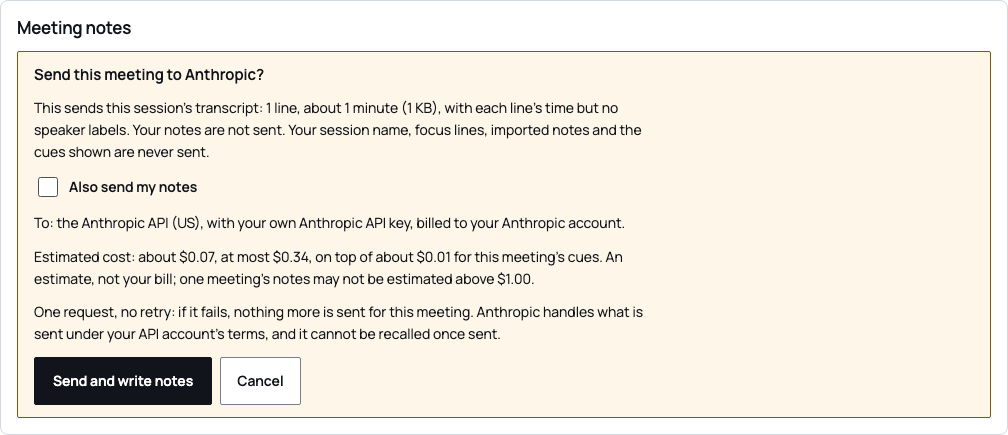
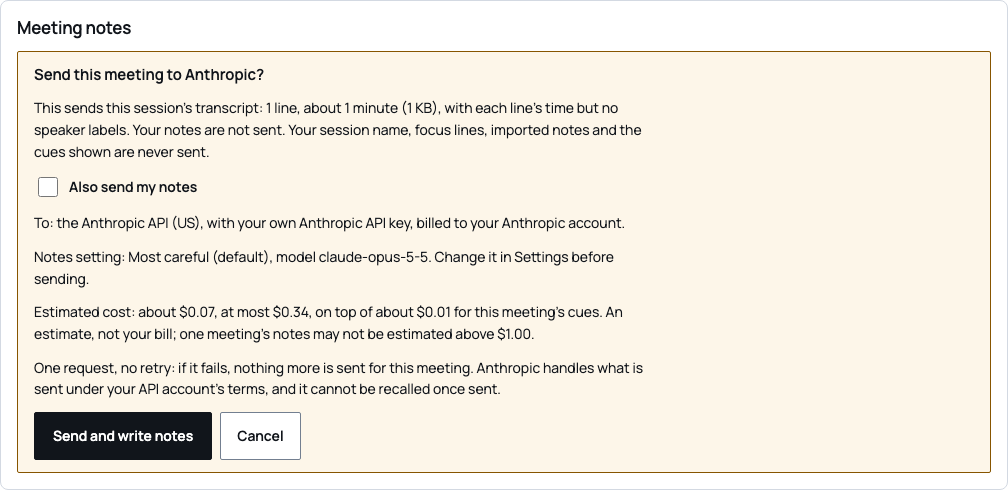
docs(notes): say what the owner check proves, the residual risk and the new bounds

Changed region(s): [[0.0, 0.0299, 0.9841, 0.8966], [0.0, 0.9264, 1.0, 1.0]]

diff --git a/docs/meeting-notes.md b/docs/meeting-notes.md
@@ -8,7 +8,7 @@ The request, the checks and the prompt are in `src-tauri/src/meeting_notes.rs`. 
 
 1. **Write meeting notes…** appears under **Meeting notes** once a live session with a transcript has ended. It is not offered while a session runs, before one, or once this meeting's request has been sent.
 2. Choosing it asks Rust for a plan; nothing is sent. The notebook shows the confirmation below and moves focus to its heading.
-3. **Send and write notes** sends the one request. The notebook says "Writing meeting notes… This can take a minute or two." with **Stop waiting**.
+3. **Send and write notes** sends the one request, and only if what would be sent is still exactly what the confirmation described: the plan carries a SHA-256 digest of the request body, and Rust refuses a request whose body differs ("What would be sent has changed since you looked … Nothing was sent."), after which the notebook shows the new plan. If the person's notes change while the confirmation is open with **Also send my notes** ticked, the notebook asks for a new plan at once. While the request runs the notebook says "Writing meeting notes… This can take a minute or two." with **Stop waiting**. Stop waiting is per request: chosen while the key is still being read (a Keychain prompt can take a while), nothing is sent ("Stopped before anything was sent. Nothing was sent.") and the request stays available; chosen after sending, the reply is no longer read. Starting a new live session stops the last session's request in the same way and drops its result.
 4. Checked notes appear as editable Markdown under "Check, edit, then keep or discard", with **Where each item came from** listing each item and the text of the lines it cites. **Keep with this meeting** keeps the edited text; **Discard** drops it.
 5. Kept notes are added to the export after the person's own notes, as edited; the existing export review shows them, and nothing is written until the person chooses a destination. The transcript and cues are still added only when **Also keep this meeting** is ticked there. Note reminders, the Still open list and speaker labels stay out, as before.
 6. The next session clears the notes, kept or not.
@@ -24,6 +24,8 @@ For a fictional 7-line meeting of 2 minutes with the default model (figures chan
 > ☐ Also send my notes
 >
 > To: the Anthropic API (US), with your own Anthropic API key, billed to your Anthropic account.
+>
+> Notes setting: Most careful (default), model claude-opus-5-5. Change it in Settings before sending.
 >
 > Estimated cost: about $0.07, at most $0.34, on top of about $0.01 for this meeting's cues. An estimate, not your bill; one meeting's notes may not be estimated above $1.00.
 >
@@ -65,26 +67,30 @@ The request goes to the fixed Messages API host with the key from the Keychain i
 
 The reply must be JSON with exactly `summary`, `decisions`, `actions` (`text`, `owner`, `due`, `lines`) and `openQuestions`, and nothing else. Then:
 
-| Check                                                                            | Failure code      |
-| -------------------------------------------------------------------------------- | ----------------- |
-| Not JSON, a missing or extra field, or an action without `owner` or `due`        | `unreadable`      |
-| More than 5 summary points, or more than 20 items in another section             | `tooMany`         |
-| An empty item, or one over 400 characters                                        | `itemText`        |
-| An item citing no line, or more than 8                                           | `uncited`         |
-| An item citing a line that was not sent (including notes that were not included) | `unknownLine`     |
-| An owner that does not appear, ignoring case and spacing, in the lines it cites  | `ownerNotInLines` |
-| A due date that does not appear in the lines it cites                            | `dueNotInLines`   |
+| Check                                                                                                                                                                  | Failure code      |
+| ---------------------------------------------------------------------------------------------------------------------------------------------------------------------- | ----------------- |
+| Not JSON, a missing or extra field, or an action without `owner` or `due`                                                                                              | `unreadable`      |
+| More than 5 summary points, or more than 20 items in another section                                                                                                   | `tooMany`         |
+| An empty item, or one over 400 characters                                                                                                                              | `itemText`        |
+| An item citing no line, or more than 8                                                                                                                                 | `uncited`         |
+| An item citing a line that was not sent (including notes that were not included)                                                                                       | `unknownLine`     |
+| An owner that is not a run of whole words in one of the lines it cites, has fewer than two letters, or is only pronouns, stand-ins ("someone", "the team") or a number | `ownerNotInLines` |
+| A due date that is not a run of whole words in one of the lines it cites, or is a single character                                                                     | `dueNotInLines`   |
 
 Any failure fails the whole reply. It is shown as failed with the reason, for example "The notes that came back failed a check (an action item named an owner that its lines do not mention), so none are shown. No notes were written, and nothing else will be sent for this meeting." Nothing is repaired, dropped or retried. A placeholder owner such as "Not stated" fails the same check, because the reply must use null.
+
+Words are compared after Unicode NFC normalisation and lower-casing, with straight, curly and modifier apostrophes dropped and every other non-letter, non-digit character a word break, so "O’Brien" matches "O'Brien" and a decomposed "Lucía" matches a composed one, while "Sam" does not match "Samantha". **What this proves is limited:** an owner or date is shown only when those words appear in the lines the item cites. It does not show that the person named agreed to the task, that the date belongs to it, or that a summary point or decision is right. The model can still write an item that is invented or misleading in other ways, which is why every item shows its lines.
+
+Model text is made inert before it becomes editable. Any word containing `://`, `www.`, `data:`, `mailto:` or `javascript:` becomes "(link removed)", and `\`, `<`, `>`, `[`, `]` and `` ` `` are backslash-escaped, so no link, image, raw HTML or code span from the reply reaches the export, and a Markdown viewer loads nothing from it. What the person types into the editable notes is theirs and is not changed.
 
 Passing notes are rendered by Rust. Each item ends with where it came from, `(transcript 00:47, 00:52)` or `(your notes line 3; transcript 00:40)`, using the same times the kept transcript lists; an action reads `Owner: Priya. Due: Friday.` or `Owner: not stated. Due: not stated.`
 
 ## Bounds, cost and failures
 
 - **Long meetings.** A transcript of more than 4,000 lines or 240,000 bytes of text is refused before anything is sent: "This meeting's transcript is longer than one request can take (about two hours of talk), so notes cannot be written for it. Nothing was sent." A session's audio is capped at 120 minutes, so this is rare; summarising only the last part was rejected because notes that silently miss the start of a meeting are worse than none.
-- **Cost.** The worst case is the cue path's formula: about two bytes per token for everything sent plus 1,500 tokens, at the input price, plus all 16,000 output tokens. The likely figure assumes four bytes per token and 3,000 output tokens. A request whose worst case passes $1.00 is refused. A completed reply is charged what the API reported; anything else is charged its worst case. The figure shown after writing is "Estimated cost of this request: about $X (an estimate, not your bill)."
-- **Nothing sent.** No transcript, a session still running, a request already sent this meeting, no key, a rejected key or an unreadable Keychain: a plain message ending "Nothing was sent.", and the request stays available when the cause was the key.
-- **Sent, then failed.** Unreachable or past 180 seconds, a 401 or 403 (the key is marked rejected), a 429, another status, a refusal, a reply at its output bound, a different model in the reply, a broken stream, **Stop waiting**, or a failed check. Each says what happened and that nothing else will be sent for this meeting.
+- **Cost.** The "at most" figure assumes one token per byte of everything sent (text rarely uses more) plus 1,500 tokens for the structured-output prompt, at the input price (nothing is cached), plus all 16,000 output tokens. The "about" figure assumes four bytes per token and 3,000 output tokens. A request whose "at most" figure passes $1.00 is refused before sending: "At its worst, this request could cost more than the $1.00 limit for one meeting's notes. A lower-cost model for meeting notes in Settings may fit. Nothing was sent." On the default model that refuses a transcript over roughly 160,000 bytes, about two and a half hours of typical speech, so the transcript bound rarely matters there. A completed reply records the cost the API reported, shown as "Estimated cost of this request: about $X (an estimate, not your bill)." When the API reports nothing (no reply, a 429 or another error status, a reply cut off, Stop waiting after sending, or the worker failing), the cost is recorded as not known rather than guessed, and the notebook says "The API did not report what this request cost; your Anthropic Console shows it." A 401 or 403 records nothing spent.
+- **Nothing sent.** No transcript, a session still running, a request already sent this meeting, the cost cap, a changed plan, Stop waiting before sending, no key, a rejected key or an unreadable Keychain: a plain message ending "Nothing was sent.", and the request stays available when the cause was the key, a changed plan or Stop waiting.
+- **Sent, then failed.** Unreachable or past 180 seconds, a 401 or 403 (the key is marked rejected), a 429, another status, a refusal, a reply at its output bound, a different model in the reply, a broken stream, **Stop waiting** after sending, or a failed check. Each says what happened and that nothing else will be sent for this meeting.
 
 ## Settings
 
@@ -92,8 +98,8 @@ Passing notes are rendered by Rust. Each item ends with where it came from, `(tr
 
 ## Evidence
 
-Offline only. Rust (`meeting_notes::tests`) runs every fixture case through the checks: owners only where named, an invented owner, a placeholder owner, an invented date, a line never sent, notes cited when not included, an uncited item, an extra field, a blank item, too many points, a meeting with nothing to note, an empty meeting, a Spanish meeting and notes cited when included. A scripted transport checks the request body (no speaker label, notes only when ticked, no fallback or tools), one request with no retry, the key only in the transport, charging, and every failure. Engine tests check one request per ended meeting, the draft staying out of the export until kept, the edited text in the export, discard, and a new session clearing everything. Playwright (`tests/meeting-notes.spec.ts`, Chromium and WebKit) checks the confirmation text, that Cancel sends nothing, the editable result and its sources, keep and export, failure, a key problem, a new session, the setting and a 320-pixel layout, against a fictional stand-in.
+Offline only. Rust (`meeting_notes::tests`) runs every fixture case through the checks: owners only where named, an invented owner, a placeholder owner, an invented date, a line never sent, notes cited when not included, an uncited item, an extra field, a blank item, too many points, a meeting with nothing to note, an empty meeting, a Spanish meeting and notes cited when included. A scripted transport checks the request body (no speaker label, notes only when ticked, no fallback or tools), one request with no retry, the key only in the transport, reported and unknown costs, and every failure. Further tests: Stop waiting during the key read posts nothing and leaves the request available; Stop waiting after sending stops reading with the cost unknown; a new session stops the last request before it is posted; a plan made before the notes changed is refused; owners "I", "we", "a", "Al", "Sam", "1", "the team" and "Someone" fail against a line naming Albert and Samantha, while NFD/NFC and curly/straight apostrophe pairs pass; an injected image, link, `javascript:` link, raw HTML and code span come out inert; and the companion window's capability file grants none of the notes commands while the main window's grants them all. Engine tests check one request per ended meeting, the draft staying out of the export until kept, the edited text in the export, discard, and a new session clearing everything. Playwright (`tests/meeting-notes.spec.ts`, Chromium and WebKit) checks the confirmation text with the notes setting, that Cancel sends nothing, Stop waiting before sending, a re-plan when notes change while the confirmation is open, the editable result and its sources, keep and export, failure, a key problem, a new session, the setting and a 320-pixel layout, against a fictional stand-in.
 
 ## What the first real run must confirm
 
-With a real key and a fictional meeting (no real people): that the request is accepted as built (the schema, effort and streaming on each of the three models); how often real replies pass the checks, and whether the owner and date checks reject correct notes (for example an owner written in a different form from the transcript); that items cite the right lines; that the likely and worst-case figures bracket the reported cost; how long a 30-, 60- and 120-minute meeting takes against the 180-second deadline; behaviour in a non-English meeting; and whether one request per meeting, with no retry after a network failure, is acceptable to the person.
+With a real key and a fictional meeting (no real people): that the request is accepted as built (the schema, effort and streaming on each of the three models); how often real replies pass the checks, and whether the owner and date checks reject correct notes (for example an owner written in a different form from the transcript); that items cite the right lines; that the "about" and "at most" figures bracket the reported cost, and how often the $1.00 cap refuses long meetings on the default model; how long a 30-, 60- and 120-minute meeting takes against the 180-second deadline; behaviour in a non-English meeting; and whether one request per meeting, with no retry after a network failure, is acceptable to the person.

diff --git a/PRIVACY.md b/PRIVACY.md
@@ -24,7 +24,7 @@ TalkQTE is an early desktop prototype with an optional microphone activity check
 - The development API lab can explicitly select `selected-prior-v2` context. Only after the session review approves exact stored note snapshots can it send their excerpts, titles, source labels, dates and opaque snapshot versions, together with approved conversation, the optional session name and current/earlier cues, to the Anthropic API. Importing or selecting a note is not processing permission. Saved snapshots are not verified current. Approving zero notes sends none, using the same selected-context prompt and route. Default API, subscription and standalone CLI paths still exclude prior notes; this mode sends no audio, manual notes or focus lines to the cue provider. The review names API billing, the per-run cap, request limits, retention and any separate transcription destination. Changing or removing an approved note invalidates its grant and pending/held cue evidence; Off and Stop prevent future requests and reject late replies but cannot recall content already sent. This is a separately enabled fictional lab path, not real-account or live-usefulness acceptance ([scope and remaining gates](docs/selected-context-lab-opt-in.md)).
 - Your own provider keys: **Settings → Your API keys** stores one Deepgram API key and one Anthropic API key, which you create in your own accounts. They are kept only in your macOS login Keychain (service `app.talkqte.provider-key`), never written to a file, never logged and never shown again; the notebook only learns whether each key is set, has been checked, or was rejected. Storing a key sends nothing. **Test** sends one read-only request to that key's provider (Deepgram's project list, Anthropic's model list), which neither transcribes nor generates anything. **Remove** deletes the key from the Keychain. The Deepgram key is used for transcription and the Anthropic key for cue decisions, as described below. See [provider keys](docs/provider-keys.md).
 - Cue decisions with your own Anthropic key: once you approve the session's review, which names the Anthropic API beside Deepgram, the app sends the Anthropic Messages API up to six recent transcript lines (labelled only `Speaker`) and any lines the cue on screen cites, the cue on screen, up to four earlier cues with how each ended, and your session name if you set one. It sends after new lines, at most once every two seconds, at most 400 requests and an estimated $0.50 per session, with the key only in a request header. The caps are per session; there is no per-launch or per-day cap. Pause cues stops these requests but not the audio to Deepgram, which is still sent and billed until you turn processing off or stop the session. It never sends audio, the full transcript, your notes, imported notes or focus lines. Anthropic bills your account and handles what is sent under your API account's terms; lines already sent cannot be recalled. A refused key, a rate limit, a failure or a cap stops cues for the session with a plain reason; nothing falls back to another service and nothing is retried. The request count and spend estimate stay in memory ([details](docs/own-key-cues.md)).
-- Meeting notes with your own Anthropic key: after a live session has ended, **Write meeting notes…** in the notebook can ask the Anthropic Messages API, once for that meeting, to write a summary, decisions, action items and open questions. This is separate from the session's processing review, which ended with the session, and nothing is sent until you confirm a second time. Before you confirm, the notebook shows what will be sent (the session's whole transcript, with each line's time from the start and no speaker labels, and your own notes only if you tick **Also send my notes**, off each time), to whom (the Anthropic API, US, with your key, billed to your account), its size, and an estimated cost with its worst case. The session name, focus lines, imported or Granola notes, the cues shown and audio are never sent for notes. One request per meeting, with no retry and no other model or service; a transcript beyond about two hours of talk (4,000 lines or 240,000 bytes) is refused before sending, and so is any request whose worst-case estimate passes $1.00. The reply is checked; notes that fail a check are shown as failed, not repaired. The notes stay in memory: they reach a file only if you keep them and then export, and the next session clears them. Anthropic handles what is sent under your API account's terms, and it cannot be recalled ([details](docs/meeting-notes.md)).
+- Meeting notes with your own Anthropic key: after a live session has ended, **Write meeting notes…** in the notebook can ask the Anthropic Messages API, once for that meeting, to write a summary, decisions, action items and open questions. This is separate from the session's processing review, which ended with the session, and nothing is sent until you confirm a second time. Before you confirm, the notebook shows what will be sent (the session's whole transcript, with each line's time from the start and no speaker labels, and your own notes only if you tick **Also send my notes**, off each time), to whom (the Anthropic API, US, with your key, billed to your account), its size, and an estimated cost with its worst case. The session name, focus lines, imported or Granola notes, the cues shown and audio are never sent for notes. One request per meeting, with no retry and no other model or service; a transcript beyond 4,000 lines or 240,000 bytes is refused before sending, and so is any request whose worst-case estimate (one token per byte) passes $1.00. The request sent is exactly the one the confirmation described; if the transcript, your notes or the notes setting change first, it is refused and shown again. **Stop waiting** before the request leaves sends nothing. The reply is checked: every item must cite lines that were sent, and an owner or date is shown only when those words appear in the lines the item cites. Notes that fail a check are shown as failed, not repaired. Those checks do not make the notes true: a model can still write an item that is invented or misleading, including from words someone said in the meeting to steer it, so check each item against the lines it cites. Links, images and HTML in the model's text are removed or escaped before you see it, so the export loads nothing from it. The notes stay in memory: they reach a file only if you keep them and then export, and the next session clears them. Anthropic handles what is sent under your API account's terms, and it cannot be recalled ([details](docs/meeting-notes.md)).
 - Connecting Granola is your choice, in the desktop app only. The sign-in happens in your browser with Granola; the app receives an access token through a one-time return address on this Mac and keeps it in memory, never on disk. Disconnect invalidates all copies of the connection without waiting for the network and discards delayed results, even after a new connection opens. Idle credentials are dropped immediately; an already-running request may finish before its credentials and response are dropped. Disconnect also cancels pending sign-in. Imported copies remain until you remove them. With that token the app asks Granola's documented MCP server for your note list, for the notes you tick, and, if you press **Suggest from Granola**, one fixed question to its assistant; nothing else: no transcripts, no writing back, no other account data. Granola sees the sign-in and those requests, with a `TalkQTE` user agent. The notebook shows whether a connection is open, which tools the server offers, and, for notes you kept, whether an update check is available and the result of the last one; it never shows whose account it is. An update check runs only when you press it and asks again only for notes you already kept; it is not offered for a Granola connection today, so no such request is sent. The suggestion step sends only that fixed question; Granola's model answers from notes it already holds, the answer is shown for you to tick, and only the lines you add become focus lines on this device. No transcript, note, or focus line of yours is sent by that step.
 - The optional `TALKQTE_GRANOLA_TRACE` developer diagnostic prints bounded structures to stderr: known field names, string lengths, collection sizes, and a tag outline. Arbitrary JSON keys, scalar values, tool descriptions, and schema defaults are masked; raw tool schemas are not logged. Your terminal may retain this output. The diagnostic is off unless explicitly enabled; it is not an automatic upload or a guarantee about provider or operating-system logs.
 - No cue is written to your notes. A quoted line, like any other cue, is shown and then let go, whether you hold it, dismiss it or leave it. The **Keep this line** button, which appended a quoted sentence to your notes, was removed on 14 November 2026.

diff --git a/README.md b/README.md
@@ -98,7 +98,7 @@ npm run tauri -- dev --features claude-cli,cloud-transcription
 
 The token file holds a short-lived Deepgram token, not an API key, in an owner-only file and folder; see [cloud transcription](docs/cloud-transcription.md) for the rules and what is sent.
 
-Choose **Start live session** in the notebook and grant microphone permission if asked. Nothing is transcribed or sent until you review and enable **Cue processing** for the session in the app; a launch setting cannot approve it, and audio captured before the approval is never sent. The notebook says so meanwhile. With your key a session sends at most 120 minutes of audio; in a development launch `TALKQTE_DEV_STT_MINUTE_CAP` caps the audio sent by the whole launch, across sessions. **Stop live session**, in the notebook or companion, releases the microphone, sends the last captured audio, waits up to 10 seconds for the last results, and ends the session; **Stop microphone** does the same. If microphone access is refused, the device fails, the stream fails, the minute cap is reached, or cue processing is turned off, the session ends and the notebook says why. Nothing falls back to another transcription or cue service. Audio is not recorded by TalkQTE. The transcript stays in memory until you start another session or quit. Export is unavailable while a live session runs; after Stop it exports your notes only, unless you tick **Also keep this meeting** in the export review, which adds that session's transcript and the cues it raised from the conversation (not note reminders or the Still open list of focus lines). The preview shows exactly what will be saved, and nothing is written until you choose a destination. After Stop, **Write meeting notes…** can ask the Anthropic API, once per meeting and only after you confirm what is sent and its estimated cost, for a summary, decisions, action items and open questions from the transcript, each ending with the transcript times it came from and an owner or date only where the transcript states one; you edit them, then keep them for the export or discard them. **Settings → Model for meeting notes** chooses the model (the most careful by default) ([meeting notes](docs/meeting-notes.md)). Other apps' audio, including the other side of a call, is not captured.
+Choose **Start live session** in the notebook and grant microphone permission if asked. Nothing is transcribed or sent until you review and enable **Cue processing** for the session in the app; a launch setting cannot approve it, and audio captured before the approval is never sent. The notebook says so meanwhile. With your key a session sends at most 120 minutes of audio; in a development launch `TALKQTE_DEV_STT_MINUTE_CAP` caps the audio sent by the whole launch, across sessions. **Stop live session**, in the notebook or companion, releases the microphone, sends the last captured audio, waits up to 10 seconds for the last results, and ends the session; **Stop microphone** does the same. If microphone access is refused, the device fails, the stream fails, the minute cap is reached, or cue processing is turned off, the session ends and the notebook says why. Nothing falls back to another transcription or cue service. Audio is not recorded by TalkQTE. The transcript stays in memory until you start another session or quit. Export is unavailable while a live session runs; after Stop it exports your notes only, unless you tick **Also keep this meeting** in the export review, which adds that session's transcript and the cues it raised from the conversation (not note reminders or the Still open list of focus lines). The preview shows exactly what will be saved, and nothing is written until you choose a destination. After Stop, **Write meeting notes…** can ask the Anthropic API, once per meeting and only after you confirm what is sent and its estimated cost, for a summary, decisions, action items and open questions from the transcript, each ending with the transcript times it came from, with an owner or date shown only when those words appear in the lines it cites (which does not make it right); you edit them, then keep them for the export or discard them. **Settings → Model for meeting notes** chooses the model (the most careful by default) ([meeting notes](docs/meeting-notes.md)). Other apps' audio, including the other side of a call, is not captured.
 
 **Pause cues**, in the notebook or companion, clears the current suggestion and keeps cues quiet while the microphone, transcript, and session clock continue. **Resume cues** waits for newly spoken lines; delayed speech from the pause does not become a new cue. The companion shows **Cues off / Mic still on** while paused. Use **Stop live session** to stop listening. These controls are [checked headlessly](docs/live-cue-pause.md); native microphone and cross-app acceptance remain separate.
 

diff --git a/PRODUCT.md b/PRODUCT.md
@@ -20,7 +20,7 @@ Use AI to help a meeting participant follow what is happening and surface releva
 
 The initial audience includes people who want a little help participating and people who already use Granola or Fireflies for their meeting record. The existing note-taker can remain the primary record. For people with no other note-taker, the notebook can be the record when they choose: after a session, the export review can include its transcript and the cues shown beside their notes, as one Markdown file they save, and they can ask once per meeting for model-written notes from the transcript (summary, decisions, action items and open questions, each citing its lines) with their own Anthropic key, confirmed before anything is sent and kept only if they choose ([meeting notes](docs/meeting-notes.md)). The live cue has context disclosure and dismissal, with no Save action or saved-question workflow. Optional notes and export remain prototype utilities; they are not the product promise.
 
-The intended flow is relevant context, an opportunity to respond, then the cue clears when no longer useful. When the person has one, an existing note-taker owns the record of what was actually said or decided; TalkQTE should not ask the user to save the same conversation again. Keeping the meeting in TalkQTE is an explicit, per-session choice in the export review, off by default; so is asking for model-written notes, which never name an owner, date or decision the transcript does not state. An unused suggestion is not a meeting fact, decision, or action item and should not be automatically written into that record. There is no established need for a saved-prompt archive.
+The intended flow is relevant context, an opportunity to respond, then the cue clears when no longer useful. When the person has one, an existing note-taker owns the record of what was actually said or decided; TalkQTE should not ask the user to save the same conversation again. Keeping the meeting in TalkQTE is an explicit, per-session choice in the export review, off by default; so is asking for model-written notes, which show an owner or date only when those words appear in the lines an item cites, and can still be wrong. An unused suggestion is not a meeting fact, decision, or action item and should not be automatically written into that record. There is no established need for a saved-prompt archive.
 
 ## Goal and first proof
 
